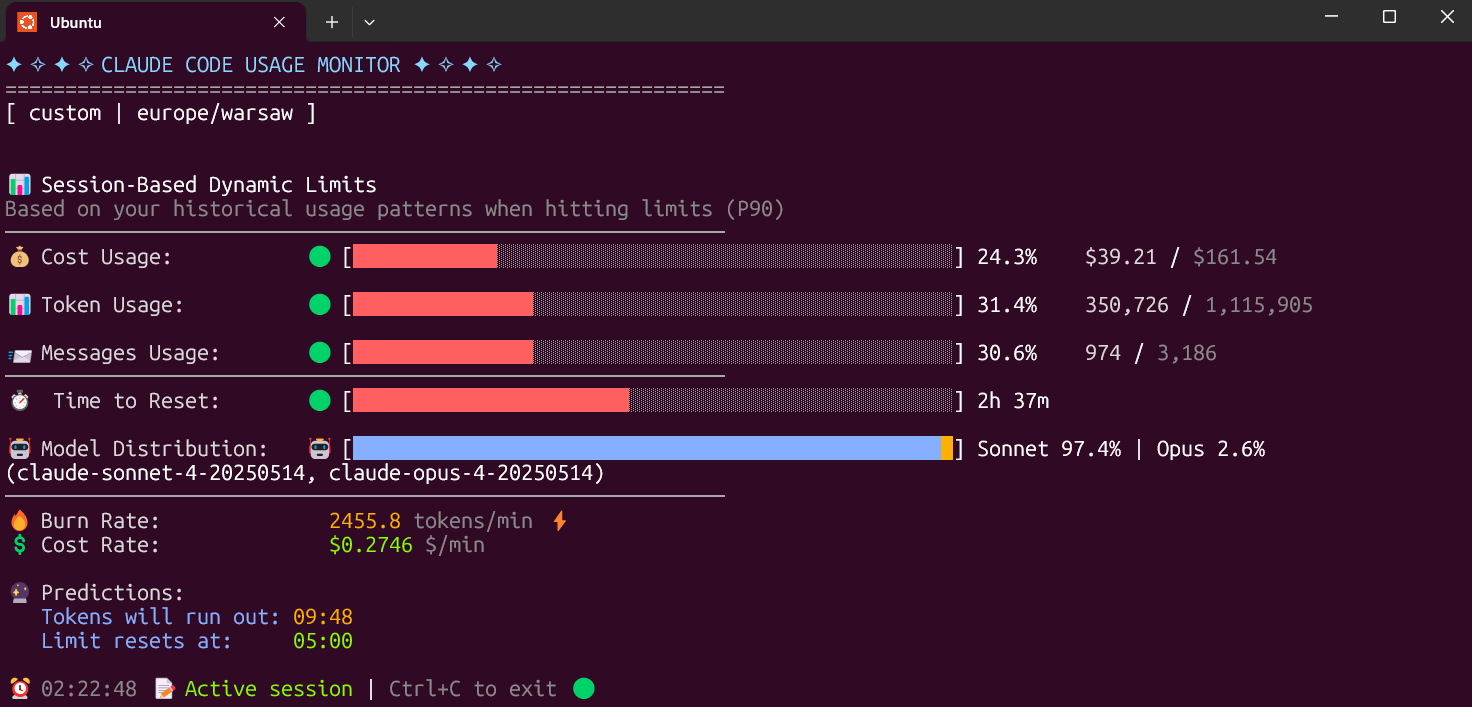
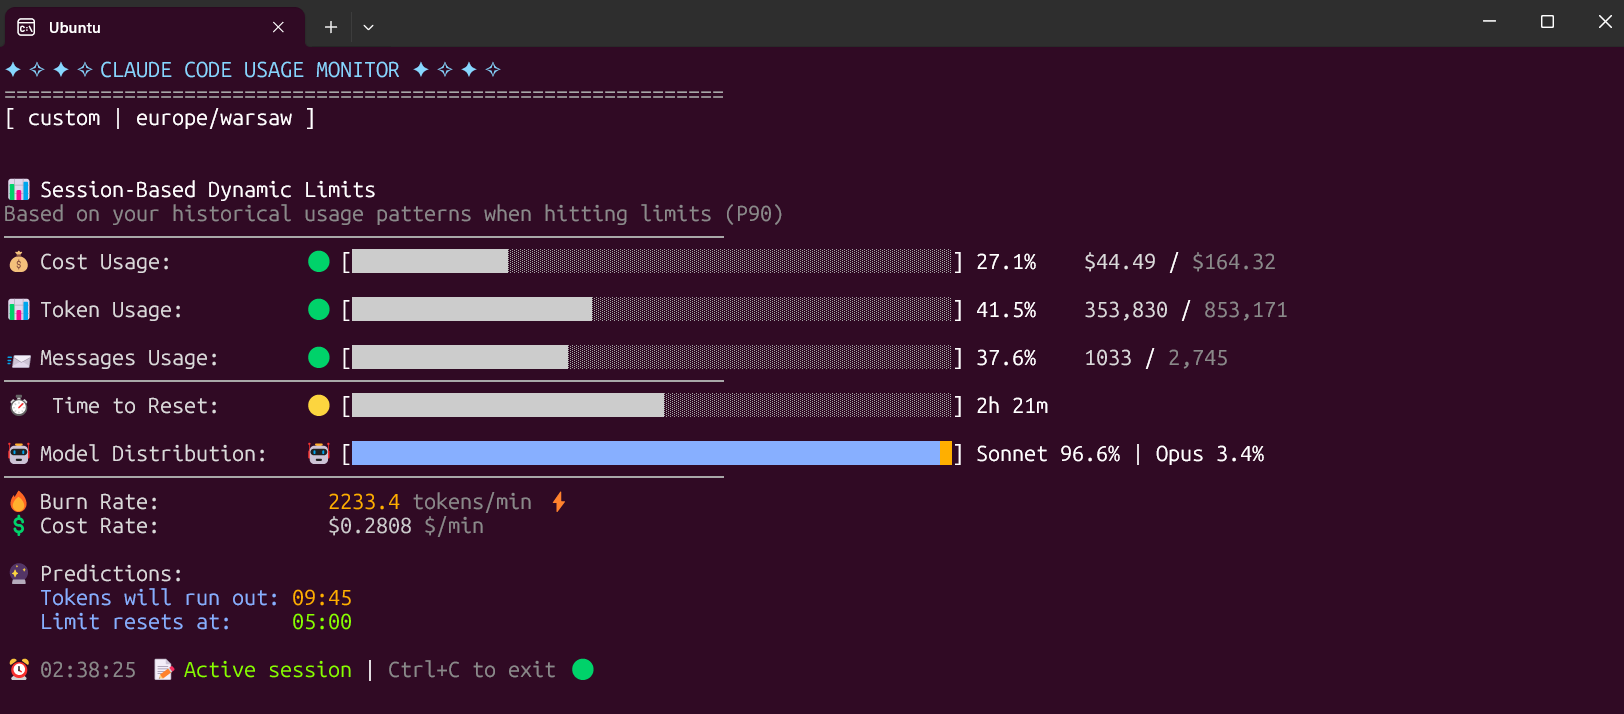
Update theme

diff --git a/src/claude_monitor/terminal/themes.py b/src/claude_monitor/terminal/themes.py
@@ -82,19 +82,20 @@ class AdaptiveColorScheme:
                 "value": "color(235)",  # Very dark gray (#262626) - 16:1 contrast
                 "dim": "color(243)",  # Medium gray (#767676) - 5:1 contrast
                 "separator": "color(240)",  # Light gray (#585858) - 6:1 contrast
-                "progress_bar": "color(22)",  # Dark green (#005f00) - matches success
+                "progress_bar": "black",  # Pure black for light theme
                 "highlight": "color(124)",  # Dark red (#af0000) - matches error
                 # Cost styles
-                "cost.low": "color(22)",  # Dark green
-                "cost.medium": "color(166)",  # Dark orange
-                "cost.high": "color(124)",  # Dark red
+                "cost.low": "black",  # Pure black for light theme
+                "cost.medium": "black",  # Pure black for light theme
+                "cost.high": "black",  # Pure black for light theme
                 # Table styles
                 "table.border": "color(238)",  # Medium-dark gray for better visibility
                 "table.header": "bold color(17)",  # Bold deep blue
                 "table.row": "color(235)",  # Very dark gray
                 "table.row.alt": "color(238)",  # Slightly lighter gray
                 # Progress styles
-                "progress.bar.fill": "color(240)",  # Semi-black (darker gray) for light theme
+                "progress.bar.fill": "black",  # Pure black for light theme
+                "progress.bar": "black",  # Pure black for light theme (fallback)
                 "progress.bar.empty": "color(250)",  # Very light gray for light theme
                 "progress.percentage": "bold color(235)",  # Bold very dark gray
                 # Chart styles
@@ -138,19 +139,20 @@ class AdaptiveColorScheme:
                 "value": "color(253)",  # Very light gray (#dadada) - 17:1 contrast
                 "dim": "color(245)",  # Medium light gray (#8a8a8a) - 7:1 contrast
                 "separator": "color(248)",  # Light gray (#a8a8a8) - 9:1 contrast
-                "progress_bar": "color(118)",  # Light green (#87ff00) - matches success
+                "progress_bar": "white",  # Pure white for dark theme
                 "highlight": "color(203)",  # Light red (#ff5f5f) - matches error
                 # Cost styles
-                "cost.low": "color(118)",  # Light green
-                "cost.medium": "color(214)",  # Orange
-                "cost.high": "color(203)",  # Light red
+                "cost.low": "white",  # Pure white for dark theme
+                "cost.medium": "white",  # Pure white for dark theme
+                "cost.high": "white",  # Pure white for dark theme
                 # Table styles
                 "table.border": "color(248)",  # Light gray
                 "table.header": "bold color(117)",  # Bold light blue
                 "table.row": "color(253)",  # Very light gray
                 "table.row.alt": "color(251)",  # Slightly darker gray
                 # Progress styles
-                "progress.bar.fill": "color(250)",  # Semi-white (light gray) for dark theme
+                "progress.bar.fill": "white",  # Pure white for dark theme
+                "progress.bar": "white",  # Pure white for dark theme (fallback)
                 "progress.bar.empty": "color(238)",  # Darker gray for dark theme
                 "progress.percentage": "bold color(253)",  # Bold very light gray
                 # Chart styles

diff --git a/src/claude_monitor/ui/progress_bars.py b/src/claude_monitor/ui/progress_bars.py
@@ -330,12 +330,4 @@ class ModelUsageBar(BaseProgressBar):
         else:
             summary = f"Other {other_percentage:.1f}%"
 
-        if len(model_names) > 0:
-            model_list = ", ".join(model_names[:3])
-            if len(model_names) > 3:
-                model_list += f" +{len(model_names) - 3} more"
-            debug_info = f" ({model_list})"
-        else:
-            debug_info = ""
-
-        return f"🤖 [{bar_display}] {summary}{debug_info}"
+        return f"🤖 [{bar_display}] {summary}"

diff --git a/src/claude_monitor/cli/main.py b/src/claude_monitor/cli/main.py
@@ -268,8 +268,8 @@ def _get_initial_token_limit(
         try:
             # Use quick start mode for faster initial load
             usage_data: Optional[Dict[str, Any]] = analyze_usage(
-                hours_back=24,
-                quick_start=True,
+                hours_back=96*2,
+                quick_start=False,
                 use_cache=False,
                 data_path=str(data_path),
             )

diff --git a/README.md b/README.md
@@ -1,4 +1,4 @@
-# 🎯 Claude Code Usage Monitor v3.0.0
+# 🎯 Claude Code Usage Monitor
 [![PyPI Version](https://img.shields.io/pypi/v/claude-monitor.svg)](https://pypi.org/project/claude-monitor/)
 [![Python Version](https://img.shields.io/badge/python-3.9+-blue.svg)](https://python.org)
 [![License: MIT](https://img.shields.io/badge/License-MIT-yellow.svg)](https://opensource.org/licenses/MIT)
@@ -63,6 +63,15 @@ A beautiful real-time terminal monitoring tool for Claude AI token usage with ad
 - **🧪 Extensive testing** - 100+ test cases with full coverage
 - **🎯 Error reporting** - Optional Sentry integration for production monitoring
 - **⚡ Performance optimized** - Advanced caching and efficient data processing
+
+### 📋 Default Custom Plan
+
+The **Custom plan** is now the default option, specifically designed for 5-hour Claude Code sessions. It monitors three critical metrics:
+- **Token usage** - Tracks your token consumption
+- **Messages usage** - Monitors message count
+- **Cost usage** - The most important metric for long sessions
+
+The Custom plan automatically adapts to your usage patterns by analyzing all your sessions from the last 192 hours (8 days) and calculating personalized limits based on your actual usage. This ensures accurate predictions and warnings tailored to your specific workflow.
 
 
 ## 🚀 Installation
